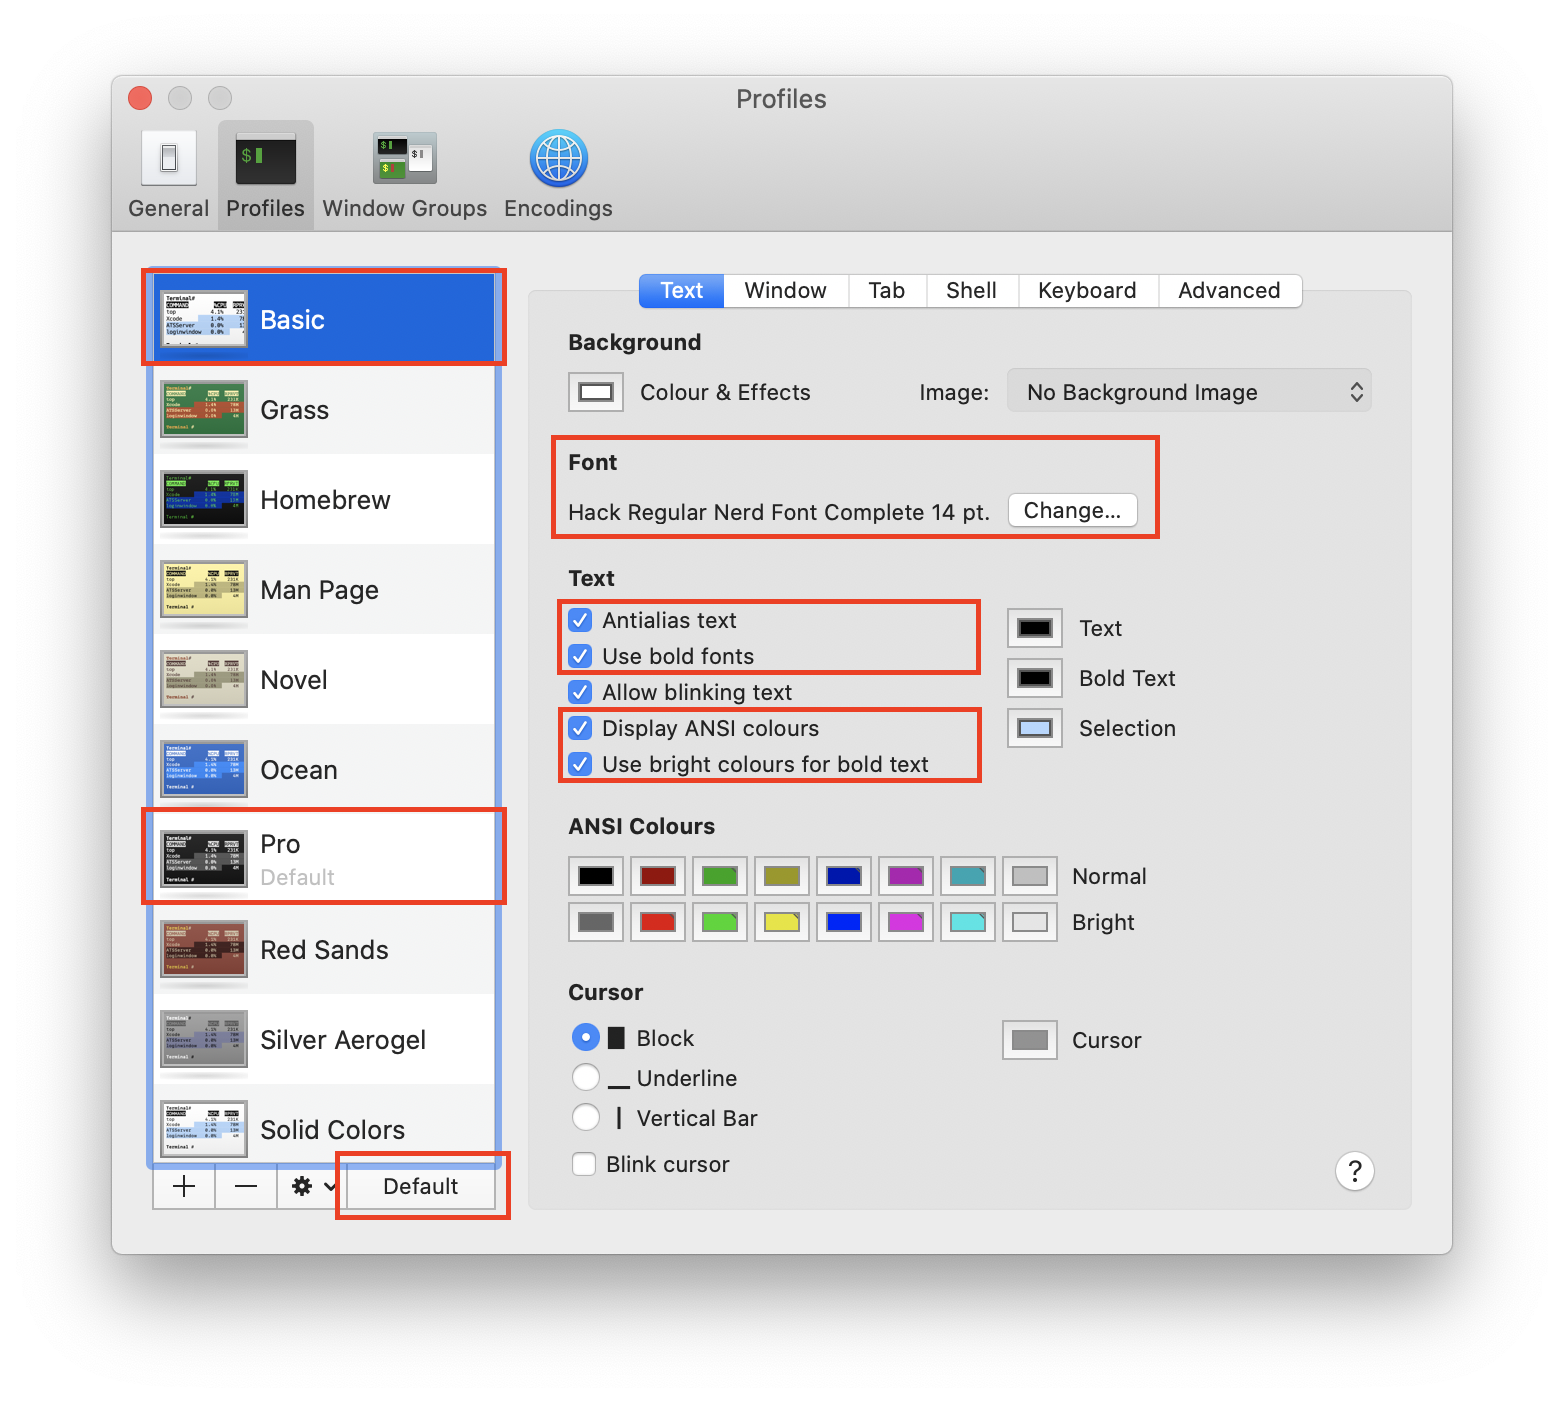
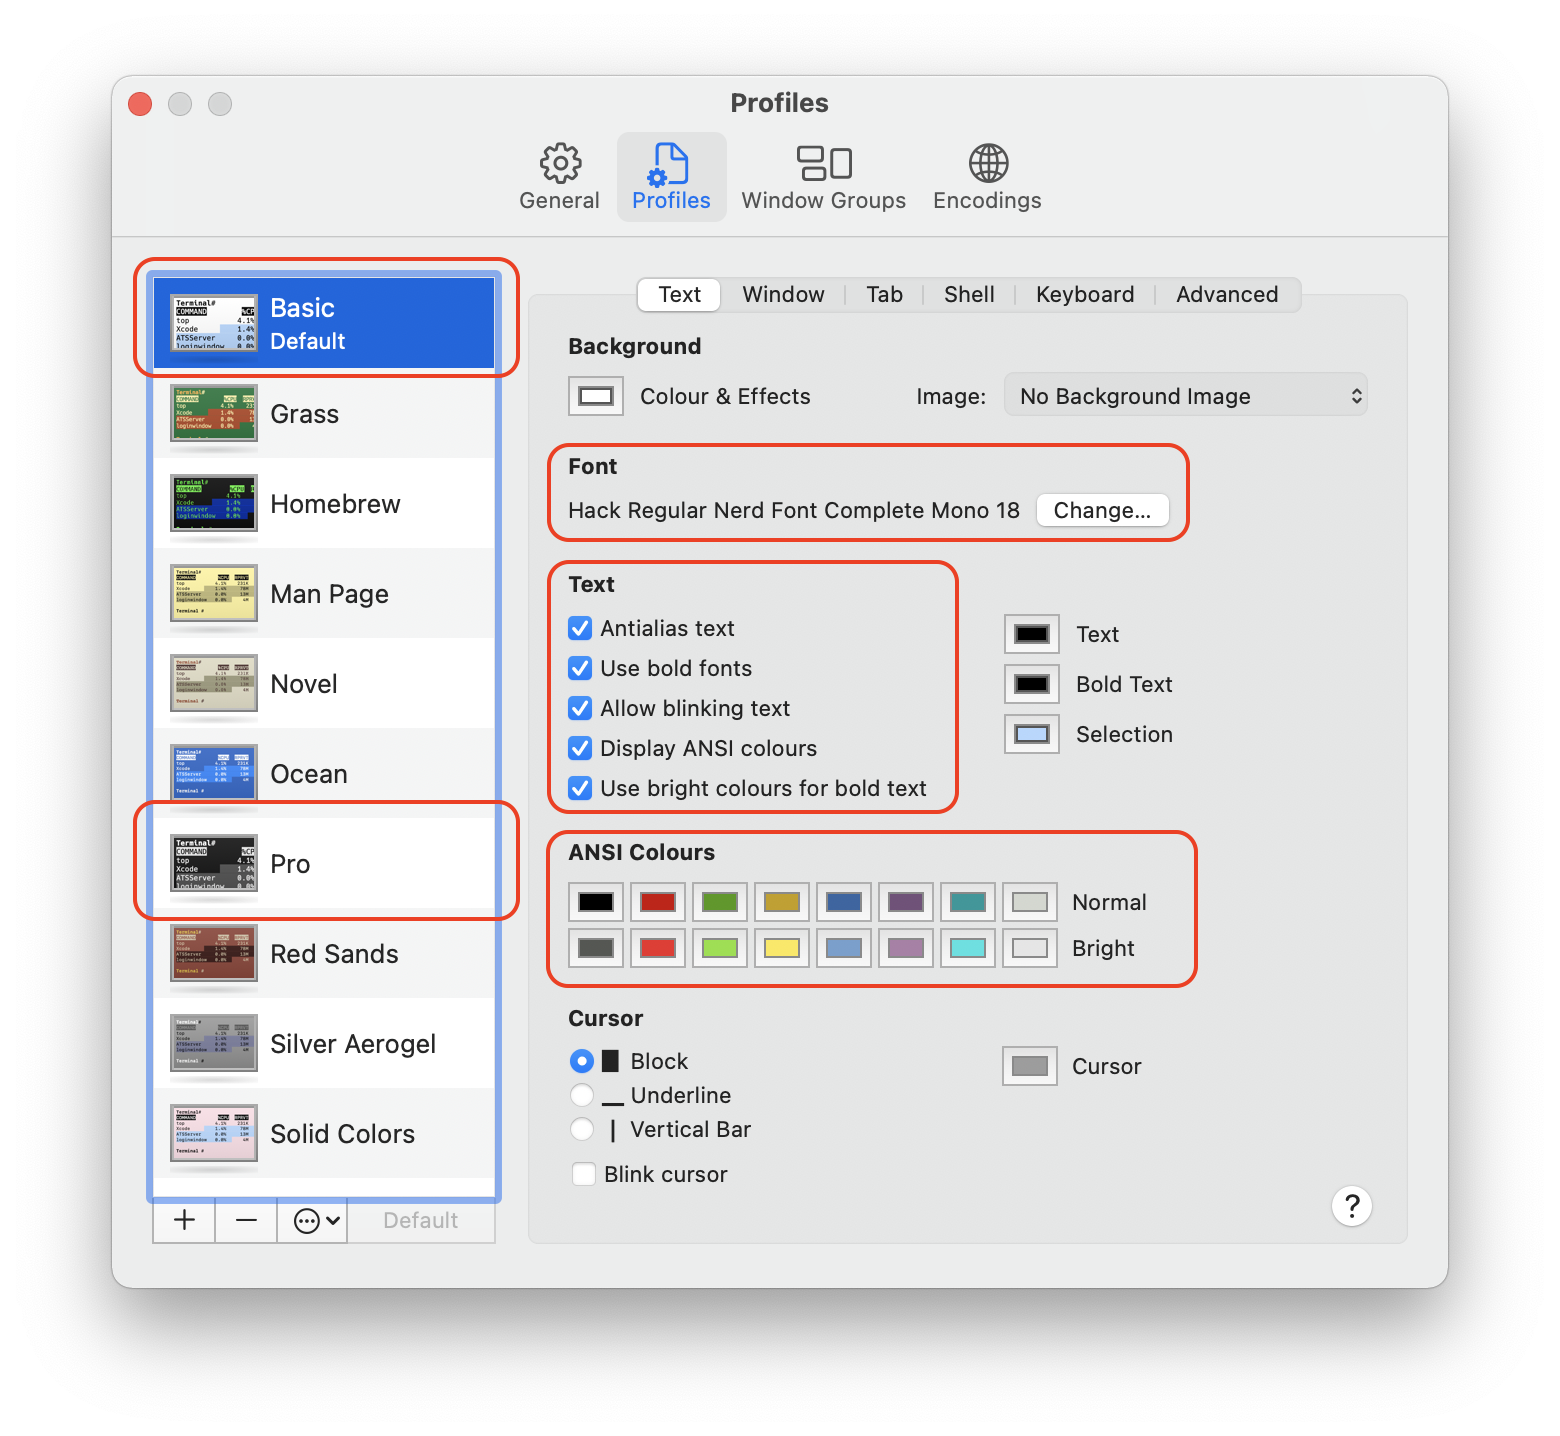
Update Terminal ZSH setup

Changed region(s): [[0.0615, 0.0613, 0.9538, 0.8894], [0.6462, 0.7361, 0.7385, 0.7668], [0.8615, 0.8281, 0.8923, 0.8588]]

diff --git a/docs/terminal-zsh-setup.md b/docs/terminal-zsh-setup.md
@@ -49,7 +49,7 @@ bash <(curl -fsSL raw.githubusercontent.com/mgomesborges/mac-dev-setup/master/in
     ```bash
     zsh --version
 
-    # zsh 5.7.1 (x86_64-apple-darwin18.2.0)
+    # zsh 5.8 (x86_64-apple-darwin20.1.0)
     ```
 
 ## Install Oh My Zsh
@@ -57,13 +57,13 @@ bash <(curl -fsSL raw.githubusercontent.com/mgomesborges/mac-dev-setup/master/in
 [Oh My Zsh](https://ohmyz.sh/) is an open source, community-driven framework for managing your zsh configuration.
 
 ```bash
-sh -c "$(curl -fsSL https://raw.githubusercontent.com/robbyrussell/oh-my-zsh/master/tools/install.sh)"
+sh -c "$(curl -fsSL https://raw.github.com/ohmyzsh/ohmyzsh/master/tools/install.sh)"
 ```
 
 You can upgrade it to get the latest features it offers:
 
 ```bash
-upgrade_oh_my_zsh
+omz update
 ```
 
 ## Install Fonts
@@ -81,30 +81,30 @@ To install the fonts, use Homebrew Cask Fonts:
 2. Install Nerd Font:
 
     ```bash
-    brew cask install font-hack-nerd-font
+    brew install font-hack-nerd-font
     ```
 
-## Install Powerlevel9k theme
+## Install Powerlevel10k theme
 
-[Powerlevel9k](https://github.com/Powerlevel9k/powerlevel9k) is the most awesome Powerline theme for ZSH around!
+[Powerlevel10k](https://github.com/romkatv/powerlevel10k) is the most awesome Powerline theme for ZSH around!
 
 Run on the terminal:
 
 ```bash
-URL="https://github.com/bhilburn/powerlevel9k.git"
-DIR="${HOME}/.oh-my-zsh/custom/themes/powerlevel9k"
+URL="https://github.com/romkatv/powerlevel10k.git"
+DIR="${HOME}/.oh-my-zsh/custom/themes/powerlevel10k"
 git clone "${URL}" "${DIR}"
 ```
 
 ## Install Plugins
 
-### Install zsh-completions
+### Install zsh-autosuggestions
 
 Clone the repository inside your oh-my-zsh repo:
 
 ```bash
-URL="https://github.com/zsh-users/zsh-completions"
-DIR="${ZSH_CUSTOM:=${HOME}/.oh-my-zsh/custom}/plugins/zsh-completions"
+URL="https://github.com/zsh-users/zsh-autosuggestions"
+DIR="${HOME}/.oh-my-zsh/custom/plugins/zsh-autosuggestions"
 git clone "${URL}" "${DIR}"
 ```
 
@@ -142,83 +142,56 @@ brew install exa
 
     ```bash
     read -r -d '' ZSH_PROFILE <<"EOF"
-    #!/bin/bash
     # Zsh Profile for macOS
     # Copyright (c) Marcos Gomes-Borges
     # https://github.com/mgomesborges/mac-dev-setup
 
-    # POWERLEVEL THEME SETTINGS
+    # Homebrew
+    export PATH="/usr/local/sbin:$PATH"
+
+    # POWERLEVEL 10K THEME SETTINGS
     ############################################################
-    # Must have a nerd font installed
     POWERLEVEL9K_MODE="nerdfont-complete"
 
-    # POWERLEVEL9K_COLOR_SCHEME="dark"
-    POWERLEVEL9K_PROMPT_ON_NEWLINE=true
-    POWERLEVEL9K_MULTILINE_FIRST_PROMPT_PREFIX=""
-    POWERLEVEL9K_MULTILINE_LAST_PROMPT_PREFIX="%# "
+    # Current directory
+    POWERLEVEL9K_DIR_FOREGROUND=254
+    POWERLEVEL9K_DIR_BACKGROUND=237
 
-    POWERLEVEL9K_ALWAYS_SHOW_USER=true
-    POWERLEVEL9K_ALWAYS_SHOW_CONTEXT=true
-    POWERLEVEL9K_CONTEXT_TEMPLATE="mgomesborges" # "%n@%m"
-
-    POWERLEVEL9K_CONTEXT_DEFAULT_BACKGROUND="white"
-    POWERLEVEL9K_CONTEXT_DEFAULT_FOREGROUND="black"
-
-    # Long paths truncation strategy
-    POWERLEVEL9K_SHORTEN_STRATEGY=""
-    POWERLEVEL9K_SHORTEN_DIR_LENGTH=2
-
-    # Dir home foreground and background
-    POWERLEVEL9K_HOME_ICON=""
-    POWERLEVEL9K_HOME_SUB_ICON=""
-    POWERLEVEL9K_FOLDER_ICON=""
-    POWERLEVEL9K_ETC_ICON=""
-
-    POWERLEVEL9K_DIR_DEFAULT_BACKGROUND="025"
-    POWERLEVEL9K_DIR_DEFAULT_FOREGROUND="white"
-    POWERLEVEL9K_DIR_HOME_BACKGROUND="025"
-    POWERLEVEL9K_DIR_HOME_FOREGROUND="white"
-    POWERLEVEL9K_DIR_HOME_SUBFOLDER_BACKGROUND="025"
-    POWERLEVEL9K_DIR_HOME_SUBFOLDER_FOREGROUND="white"
-
-    # Displays a lock icon if you do not have write permissions on the folder
-    POWERLEVEL9K_DIR_WRITABLE_FORBIDDEN_BACKGROUND="white"
-    POWERLEVEL9K_DIR_WRITABLE_FORBIDDEN_FOREGROUND="red"
+    # OS identifier color
+    POWERLEVEL9K_OS_ICON_FOREGROUND=232
+    POWERLEVEL9K_OS_ICON_BACKGROUND=7
 
     # Time
+    POWERLEVEL9K_TIME_FOREGROUND=0
+    POWERLEVEL9K_TIME_BACKGROUND=7
     POWERLEVEL9K_TIME_FORMAT="%D{%d/%m %H:%M:%S}"
 
     # Current Python virtual environment
-    POWERLEVEL9K_VIRTUALENV_BACKGROUND="220"
-    POWERLEVEL9K_VIRTUALENV_FOREGROUND="black"
+    POWERLEVEL9K_VIRTUALENV_FOREGROUND=0
+    POWERLEVEL9K_VIRTUALENV_BACKGROUND=220
 
-    # Current Python version
-    POWERLEVEL9K_CUSTOM_PYTHON_VERSION="zsh_python_version"
-    POWERLEVEL9K_CUSTOM_PYTHON_VERSION_BACKGROUND="024"
-    POWERLEVEL9K_CUSTOM_PYTHON_VERSION_FOREGROUND="white"
+    # Pyenv
+    POWERLEVEL9K_PYENV_FOREGROUND=255
+    POWERLEVEL9K_PYENV_BACKGROUND=24
 
-    zsh_python_version(){
-        local virtualenv_path="$VIRTUAL_ENV"
-        # Early exit; $virtualenv_path must always be set
-        [[ -z "$virtualenv_path" ]] && return
-        python_version=$(python --version 2>&1)
-        echo ${python_version/"Python"/""}
-    }
-
-    # Prompt elements
     POWERLEVEL9K_LEFT_PROMPT_ELEMENTS=(
-        context
+        os_icon
         dir
-        dir_writable
-        virtualenv
-        custom_python_version
-        rbenv
+        vcs
+        newline
+        prompt_char
     )
     POWERLEVEL9K_RIGHT_PROMPT_ELEMENTS=(
+        status
+        command_execution_time
         background_jobs
-        rvm
-        vcs
+        direnv
+        asdf
+        virtualenv
+        pyenv
+        vim_shell
         time
+        newline
     )
 
     # OH MY ZSH SETTINGS
@@ -228,16 +201,9 @@ brew install exa
 
     # ZSH Terminal title
     DISABLE_AUTO_TITLE=true
-    # echo -ne "\e]1;TERMINAL_TITLE\a"
-
-    # Username which by default will not be shown
-    export DEFAULT_USER="$USER"
 
     # Set name of the theme to load
-    ZSH_THEME="powerlevel9k/powerlevel9k"
-
-    # Disable Oh My Zsh automatic update
-    DISABLE_UPDATE_PROMPT="true"
+    ZSH_THEME="powerlevel10k/powerlevel10k"
 
     # Plugins
     plugins=(
@@ -250,13 +216,15 @@ brew install exa
         docker
         docker-compose
         kubectl
-        zsh-completions
+        colorize
+        compleat
+        zsh-autosuggestions
         zsh-syntax-highlighting
         colored-man-pages
+        command-not-found
     )
 
-    # Reload for zsh-completions
-    autoload -U compinit && compinit
+    # Update ZSH settings
     source $ZSH/oh-my-zsh.sh
 
     # User configuration
@@ -277,6 +245,7 @@ brew install exa
 
     # Pyenv Python version management
     if command -v pyenv 1>/dev/null 2>&1; then
+        eval "$(pyenv init --path)"
         eval "$(pyenv init -)"
         pyenv virtualenvwrapper
     fi
@@ -294,7 +263,7 @@ brew install exa
 5. Press the `Default` button near the bottom of the window
 6. Under the `Font` tab change the font:
 
-    * `Hack Regular Nerd Font Complete 14 pt`
+    * `Hack Regular Nerd Font Complete 18 pt`
 
 7. Under the `Text` tab check the boxes:
 
@@ -302,5 +271,7 @@ brew install exa
    * `Use bold fonts`
    * `Display ANSI colors`
    * `Use bright colors for bold text`
+
+8. Update the **ANSI Colours** table: click on the colour, select the colour picker tool and use the colours from the palette below as a reference.
 
 ![Terminal Profiles - Text](../assets/terminal-profiles-text-zsh.png?raw=true)
